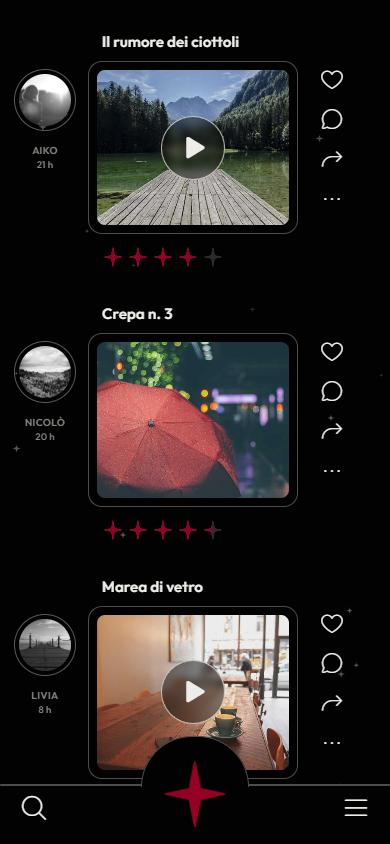
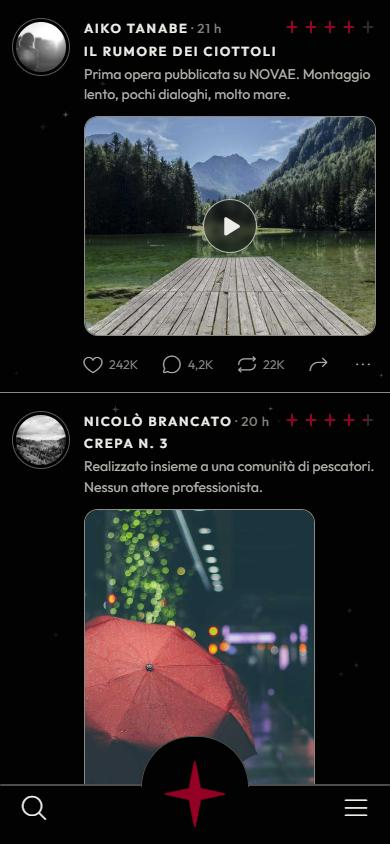
Scopri: nuovo feed in stile X
- Post come nel bozzetto: foto profilo, NOME · tempo con le stelle a destra,
  titolo e descrizione, riquadro che segue la forma dell'opera, separatori
- Tocco sull'opera: modalita reels (TikTok)
- Tocco sul resto del post o sul fumetto: pagina commenti come su X, con
  statistiche, risposte e campo per rispondere (le risposte restano salvate)
- Azioni: mi piace, commenti, ripubblica, condividi, tre puntini; numeri brevi
- Tre puntini: Salva, Segnala, Non mi interessa (con Annulla); sulle tue opere
  Salva ed Elimina

diff --git a/app.js b/app.js
@@ -431,20 +431,118 @@
     }, { passive: false });
   })();
 
-  /* ---------------- 3. Feed ---------------- */
-  function postHtml(w) {
+  /* ---------------- 3. Scopri: X-style feed ----------------
+     Tap the picture: reels. Tap anywhere else on the post (the black sides) or the comment
+     button: the post's comments page (#post/id), like on X. */
+  const reposted = new Set(readJSON('novae.reposted', []));
+  const hidden = new Set(readJSON('novae.hidden', [])); // "Non mi interessa"
+  const REPLIES_MINE = readJSON('novae.replies', {}); // your replies, per work
+  const repostCount = w => Math.floor(w.likes / 11) + (reposted.has(w.id) ? 1 : 0);
+  // short counts like X: 842, 4,2K, 242K, 1,3M
+  const short = n => n < 1000 ? String(n) : n < 1e6 ? `${(n / 1e3).toFixed(n < 1e4 ? 1 : 0).replace('.', ',').replace(',0', '')}K` : `${(n / 1e6).toFixed(1).replace('.', ',').replace(',0', '')}M`;
+  const replyCount = w => w.comments + (REPLIES_MINE[w.id]?.length || 0);
+  const xActions = (w, big = false) => {
+    const on = liked.has(w.id), rp = reposted.has(w.id);
+    return `<div class="x-actions ${big ? 'big' : ''}">
+      <button class="act like ${on ? 'on' : ''}" data-act="like" data-id="${w.id}" aria-pressed="${on}" aria-label="Mi piace"><i class="${on ? 'ph-fill' : 'ph-light'} ph-heart"></i><small data-count="${w.id}" data-short="1">${short(likeCount(w))}</small></button>
+      <button class="act" data-act="thread" data-id="${w.id}" aria-label="Commenti"><i class="ph-light ph-chat-circle"></i><small>${short(replyCount(w))}</small></button>
+      <button class="act repost ${rp ? 'on' : ''}" data-act="repost" data-id="${w.id}" aria-pressed="${rp}" aria-label="Ripubblica"><i class="ph-light ph-repeat"></i><small data-rp="${w.id}" data-short="1">${short(repostCount(w))}</small></button>
+      ${shareBtn(w)}
+      <button class="act" data-act="more" data-id="${w.id}" aria-label="Altre azioni"><i class="ph-light ph-dots-three"></i></button>
+    </div>`;
+  };
+  // the frame takes the work's own shape: wide works are wide, tall works are tall and narrower
+  const mediaFrame = w => {
+    const ratio = Math.max(.56, Math.min(1.91, (w.w || 1200) / (w.h || 900)));
+    const width = ratio < 1 ? Math.round(56 + ratio * 30) : 100; // portrait: ~73% at 3:4, ~73-85% range
+    return `<a class="x-media ph-img" href="#vista/${w.id}" data-dbl="${w.id}" style="aspect-ratio:${ratio.toFixed(3)};width:${width}%" aria-label="Apri ${w.t} a schermo intero">${img(w.ts ? w.img : w.thumb, w.t)}${mediaOverlay(w)}</a>`;
+  };
+  function postX(w) {
     const a = ARTISTS[w.a];
-    return `<article class="post">
-      <p class="post-title">${w.t}</p>
-      <div class="post-side">${avatarRing(w.a)}<span class="post-by">${a.name.split(' ')[0]}<small>${agoText(w)}</small></span></div>
-      <a class="frame" href="#vista/${w.id}" data-dbl="${w.id}" aria-label="${w.t} di ${a.name}">
-        <span class="frame-inner ph-img">${img(w.thumb, w.t)}${mediaOverlay(w)}</span>
-      </a>
-      <div class="post-actions">${heart(w)}${commentBtn(w)}${shareBtn(w)}<button class="act" data-act="more" data-id="${w.id}" aria-label="Altre azioni"><i class="ph-light ph-dots-three"></i></button></div>
-      ${w.rating ? rating(w.rating, 22) : '<span class="rating new-tag">Nuova</span>'}
+    return `<article class="xpost" data-thread="${w.id}">
+      <div class="x-ava">${avatarRing(w.a)}</div>
+      <div class="x-body">
+        <div class="x-head">
+          <p class="x-meta"><a class="x-name" href="${profileHref(w.a)}">${a.name}</a> <span class="x-time">· ${agoText(w)}</span></p>
+          ${w.rating ? rating(w.rating, 16) : '<span class="new-tag">Nuova</span>'}
+        </div>
+        <p class="x-title">${w.t}</p>
+        <p class="x-desc">${w.desc}</p>
+        ${mediaFrame(w)}
+        ${xActions(w)}
+      </div>
     </article>`;
   }
-  function renderFeed() { $('#feed').innerHTML = [...MINE, ...FEED].map(postHtml).join(''); }
+  function renderFeed() {
+    const list = [...MINE, ...FEED].filter(w => !hidden.has(w.id));
+    $('#feed').className = 'xfeed';
+    $('#feed').innerHTML = list.length ? list.map(postX).join('')
+      : `<div class="empty">${starSvg()}<strong>Hai nascosto tutto</strong><p>Le opere che segni "Non mi interessa" spariscono da qui.</p><button class="btn-ghost" data-act="unhide-all">Mostrale di nuovo</button></div>`;
+  }
+
+  /* ---------------- Post comments page (#post/id), like an X thread ---------------- */
+  const REPLY_TEXTS = [
+    'Il taglio di luce al minuto due. Come hai fatto?', 'Questo mi ha fatto venire voglia di tornare a dipingere.',
+    'Cinque stelle, senza pensarci.', 'La composizione è pazzesca, ci ho messo un po\' a capirla.',
+    'Lo guardo da dieci minuti. Grazie.', 'Mi ricorda casa, in un modo che non so spiegare.',
+    'Quando esce la serie completa?', 'Il suono è perfetto con le cuffie.', 'Colori incredibili. Che pellicola usi?',
+  ];
+  const mockReplies = w => {
+    const r = rng(w.likes || 7);
+    const ids = AIDS.filter(id => id !== w.a);
+    return Array.from({ length: w.ts ? 0 : 6 }, (_, i) => ({
+      a: ids[Math.floor(r() * ids.length)], text: REPLY_TEXTS[Math.floor(r() * REPLY_TEXTS.length)],
+      ago: 3 + i * 17 + Math.floor(r() * 40), likes: Math.floor(r() * 900),
+    }));
+  };
+  const replyHtml = rp => `<div class="x-reply">
+      <div class="x-ava">${avatarRing(rp.a, 'sm')}</div>
+      <div><p class="x-meta"><a class="x-name" href="${profileHref(rp.a)}">${ARTISTS[rp.a].name}</a> <span class="x-time">· ${rp.ts ? agoText(rp) : agoText({ ago: rp.ago })}</span></p>
+        <p class="x-text">${rp.text}</p>
+        ${rp.likes ? `<p class="x-reply-likes"><i class="ph-light ph-heart"></i> ${fmt(rp.likes)}</p>` : ''}</div>
+    </div>`;
+  function renderThread(id) {
+    const w = byId[id];
+    const root = $('#thread');
+    if (!w) { root.innerHTML = `<div class="empty">${starSvg()}<strong>Post non trovato</strong><p>Forse è stato eliminato.</p><a class="btn-ghost" href="#scopri">Torna a Scopri</a></div>`; return; }
+    const a = ARTISTS[w.a];
+    const mine = (REPLIES_MINE[w.id] || []).map(t => ({ a: 'me', text: t.text, ts: t.ts }));
+    root.innerHTML = `
+      <header class="x-top"><button class="icon-btn" data-act="back" data-fallback="#scopri" aria-label="Indietro"><i class="ph-light ph-arrow-left"></i></button><h1>Post</h1></header>
+      <article class="xpost open">
+        <div class="x-ava">${avatarRing(w.a)}</div>
+        <div class="x-body">
+          <div class="x-head">
+            <p class="x-meta"><a class="x-name" href="${profileHref(w.a)}">${a.name}</a> <span class="x-time">· ${agoText(w)}</span></p>
+            ${w.rating ? rating(w.rating, 16) : '<span class="new-tag">Nuova</span>'}
+          </div>
+          <p class="x-title">${w.t}</p>
+          <p class="x-desc open">${w.desc}</p>
+          ${mediaFrame(w)}
+          <p class="x-stats"><span><strong data-rp="${w.id}">${fmt(repostCount(w))}</strong> ripubblicazioni</span><span><strong data-count="${w.id}">${fmt(likeCount(w))}</strong> mi piace</span><span><strong>${fmt(w.views)}</strong> visualizzazioni</span></p>
+          ${xActions(w, true)}
+        </div>
+      </article>
+      <form class="x-compose" data-reply="${w.id}">
+        <img class="x-me" src="${avatar('me')}" alt="">
+        <label for="replyInput" class="sr-only">La tua risposta</label>
+        <input id="replyInput" placeholder="Scrivi la tua risposta" autocomplete="off" maxlength="280">
+        <button class="btn-accent" type="submit">Rispondi</button>
+      </form>
+      <div class="x-replies">${[...mine.reverse(), ...mockReplies(w)].map(replyHtml).join('') || '<p class="x-none">Ancora nessuna risposta. Scrivi la prima.</p>'}</div>`;
+    if (focusReply) { focusReply = false; requestAnimationFrame(() => $('#replyInput')?.focus({ preventScroll: true })); }
+  }
+  let focusReply = false; // set by the comment button, so you can type right away
+  function submitReply(f) {
+    const input = f.querySelector('input');
+    const text = input.value.trim();
+    if (!text) { input.focus(); return; }
+    const id = f.dataset.reply;
+    (REPLIES_MINE[id] ||= []).push({ text: text.replace(/&/g, '&amp;').replace(/</g, '&lt;'), ts: Date.now() });
+    store.set('novae.replies', JSON.stringify(REPLIES_MINE));
+    renderThread(id);
+    toast('Risposta pubblicata');
+  }
 
   /* ---------------- 4. Vista: full-screen vertical feed, like Reels / TikTok ----------------
      Native scroll-snap does the swiping; an IntersectionObserver tracks the reel on screen. */
@@ -474,7 +572,7 @@
     </section>`;
   }
   function renderVista(id) {
-    const all = [...MINE, ...FEED];
+    const all = [...MINE, ...FEED].filter(w => !hidden.has(w.id) || w.id === id);
     const start = byId[id] || all[0];
     const list = all.includes(start) ? all : [start, ...all]; // e.g. a film opened from Cinematografia
     const root = $('#vista');
@@ -956,10 +1054,19 @@
     sheetOpener = null;
   }
   let toastT;
-  function toast(msg) {
+  // toast(msg) or toast(msg, { label, fn }) for an undo-style action button
+  function toast(msg, action) {
     const t = $('#toast');
-    t.textContent = msg; t.classList.add('show');
-    clearTimeout(toastT); toastT = setTimeout(() => t.classList.remove('show'), 2200);
+    t.textContent = msg;
+    if (action) {
+      const b = document.createElement('button');
+      b.className = 'toast-act'; b.textContent = action.label;
+      b.onclick = () => { action.fn(); t.classList.remove('show'); };
+      t.append(b);
+    }
+    t.classList.toggle('has-act', !!action);
+    t.classList.add('show');
+    clearTimeout(toastT); toastT = setTimeout(() => t.classList.remove('show'), action ? 4500 : 2200);
   }
   const COMMENTS = [['kitti', 'Il taglio di luce al minuto due. Come hai fatto?'], ['mara', 'Questo mi ha fatto venire voglia di registrare il mare.'], ['ananya', 'Cinque stelle, senza pensarci.']];
 
@@ -968,6 +1075,7 @@
     invito: () => drawQR(),
     hub: renderHub,
     scopri: renderFeed,
+    post: renderThread,
     vista: renderVista,
     galleria: renderStile,
     stile: renderSeguiti,
@@ -981,7 +1089,7 @@
     impostazioni: renderSettings,
   };
   const TITLES = {
-    invito: 'Invito', scopri: 'Scopri', vista: 'Opera', galleria: 'Galleria', stile: 'Stile', disciplina: 'Cinematografia', opera: 'Opera',
+    invito: 'Invito', scopri: 'Scopri', post: 'Post', vista: 'Opera', galleria: 'Galleria', stile: 'Stile', disciplina: 'Cinematografia', opera: 'Opera',
     novae: 'Novae', mercato: 'Mercato', profilo: 'Profilo', artista: 'Artista', messaggi: 'Messaggi', impostazioni: 'Impostazioni',
   };
   const scrollMemo = new Map(); // hash -> scrollY, so "back" lands where you left
@@ -1061,7 +1169,7 @@
       b.querySelector('i').className = `${on ? 'ph-fill' : 'ph-light'} ph-heart`;
       b.classList.remove('pop'); void b.offsetWidth; if (on) b.classList.add('pop');
     });
-    $$(`[data-count="${w.id}"]`).forEach(s => s.textContent = fmt(likeCount(w)));
+    $$(`[data-count="${w.id}"]`).forEach(s => s.textContent = s.dataset.short ? short(likeCount(w)) : fmt(likeCount(w)));
     if (on) buzz();
   }
   function burst(host, e) {
@@ -1110,10 +1218,41 @@
       return;
     }
     const el = e.target.closest('[data-act]');
-    if (!el) return;
+    if (!el) {
+      // a tap on the post's empty/black area (not the picture, a link or a button) opens its comments
+      const xp = e.target.closest('.xpost[data-thread]');
+      if (xp && !e.target.closest('a, button, input, [data-dbl]') && !getSelection().toString()) location.hash = '#post/' + xp.dataset.thread;
+      return;
+    }
     const act = el.dataset.act;
     const w = byId[el.dataset.id];
     switch (act) {
+      case 'thread':
+        if (cur.name === 'post' && cur.param === w.id) { $('#replyInput')?.focus(); break; }
+        focusReply = true;
+        location.hash = '#post/' + w.id;
+        break;
+      case 'repost': {
+        const on = !reposted.has(w.id);
+        on ? reposted.add(w.id) : reposted.delete(w.id);
+        store.set('novae.reposted', JSON.stringify([...reposted]));
+        $$(`[data-act="repost"][data-id="${w.id}"]`).forEach(b => { b.classList.toggle('on', on); b.setAttribute('aria-pressed', on); });
+        $$(`[data-rp="${w.id}"]`).forEach(s => s.textContent = s.dataset.short ? short(repostCount(w)) : fmt(repostCount(w)));
+        toast(on ? 'Ripubblicata per chi ti segue' : 'Ripubblicazione annullata');
+        if (on) buzz();
+        break;
+      }
+      case 'not-interested': {
+        hidden.add(w.id);
+        store.set('novae.hidden', JSON.stringify([...hidden]));
+        closeSheet();
+        const undo = () => { hidden.delete(w.id); store.set('novae.hidden', JSON.stringify([...hidden])); if (cur.name === 'scopri') refresh(); };
+        toast('Non vedrai più questa opera', { label: 'Annulla', fn: undo });
+        if (cur.name === 'scopri') refresh();
+        else if (cur.name === 'post') location.hash = '#scopri';
+        break;
+      }
+      case 'unhide-all': hidden.clear(); store.del('novae.hidden'); refresh(); break;
       case 'arc': setArc(el.getAttribute('aria-expanded') !== 'true'); break;
       case 'arc-close': setArc(false); break;
       case 'search': openSearch(); break;
@@ -1137,13 +1276,13 @@
         openSheet(`<h3>${w.t}</h3>${rating(w.rating, 18)}<p style="margin-top:12px">${w.desc}</p><p style="margin-top:8px;color:var(--ink-3)">${ARTISTS[w.a].name}, ${w.disc.toLowerCase()}, ${w.year}</p><a class="btn-ghost" href="#opera/${w.id}">Scheda completa</a>`);
         break;
       case 'more':
+        // three dots: Salva, Segnala, Non mi interessa (your own works: Salva, Elimina)
         openSheet(`<h3>${w.t}</h3><div class="action-list">
-          <button data-act="save" data-id="${w.id}"><i class="ph-light ph-bookmark-simple"></i>${saved.has(w.id) ? 'Rimuovi dai salvati' : 'Salva'}</button>
-          <button data-act="copy-link" data-id="${w.id}"><i class="ph-light ph-link-simple"></i>Copia link</button>
-          <a href="${profileHref(w.a)}"><i class="ph-light ph-user"></i>${w.a === 'me' ? 'Vai al tuo profilo' : 'Vai a ' + ARTISTS[w.a].name}</a>
+          <button data-act="save" data-id="${w.id}"><i class="${saved.has(w.id) ? 'ph-fill' : 'ph-light'} ph-bookmark-simple"></i>${saved.has(w.id) ? 'Rimuovi dai salvati' : 'Salva'}</button>
           ${w.a === 'me'
             ? `<button class="danger" data-act="delete" data-id="${w.id}"><i class="ph-light ph-trash"></i>Elimina opera</button>`
-            : `<button class="danger" data-act="report"><i class="ph-light ph-flag"></i>Segnala</button>`}
+            : `<button data-act="report"><i class="ph-light ph-flag"></i>Segnala</button>
+               <button data-act="not-interested" data-id="${w.id}"><i class="ph-light ph-eye-slash"></i>Non mi interessa</button>`}
         </div>`);
         break;
       case 'save': {
@@ -1225,6 +1364,7 @@
   document.addEventListener('submit', e => {
     const f = e.target;
     if (f.id === 'pubForm') { e.preventDefault(); submitPublish(f); return; }
+    if (f.dataset.reply) { e.preventDefault(); submitReply(f); return; }
     if (f.id === 'profForm') { e.preventDefault(); submitProfile(); return; }
     if (f.classList.contains('composer')) {
       e.preventDefault();

diff --git a/styles.css b/styles.css
@@ -768,3 +768,55 @@ body[data-screen="disciplina"] .rail { right: max(4px, calc(50% - 560px + 2px));
    don't resolve in every browser (Safari), which let tall pictures spill out at the bottom */
 .frame { overflow: hidden; }
 .frame-inner { position: absolute; inset: 8px; width: auto; height: auto; }
+
+/* ---------- Scopri: X-style feed (from the feed sketch) ---------- */
+#feed.xfeed { display: block; padding: 0; }
+.xpost { display: grid; grid-template-columns: 58px minmax(0, 1fr); column-gap: 14px; padding: 18px 14px 8px 12px; border-bottom: var(--stroke) solid var(--line-hi); cursor: pointer; transition: background .15s; }
+.xpost:hover { background: rgba(255, 255, 255, .018); }
+.xpost.open { cursor: default; border-bottom-color: var(--line); }
+.xpost.open:hover { background: none; }
+.x-ava .avatar-ring { width: 58px; height: 58px; padding: 3px; }
+.x-body { min-width: 0; }
+.x-head { display: flex; align-items: flex-start; justify-content: space-between; gap: 10px; }
+.x-meta { min-width: 0; font-size: 13px; line-height: 1.3; white-space: nowrap; overflow: hidden; text-overflow: ellipsis; padding-top: 2px; }
+.x-name { font-weight: 600; letter-spacing: .14em; text-transform: uppercase; }
+.x-name:hover { text-decoration: underline; }
+.x-time { color: var(--ink-3); font-weight: 500; letter-spacing: .06em; }
+.x-head .rating { flex: none; margin-top: 1px; }
+.x-head .new-tag { flex: none; font-size: 10px; font-weight: 700; letter-spacing: .12em; text-transform: uppercase; color: var(--accent-hi); }
+.x-title { margin-top: 6px; font-size: 13px; font-weight: 600; letter-spacing: .14em; text-transform: uppercase; }
+.x-desc { margin-top: 5px; font-size: 14px; line-height: 1.45; color: var(--ink-2); display: -webkit-box; -webkit-line-clamp: 3; -webkit-box-orient: vertical; overflow: hidden; }
+.x-desc.open { -webkit-line-clamp: unset; display: block; font-size: 15px; color: var(--ink); }
+/* the frame follows the work's shape (aspect-ratio and width are set per post) */
+.x-media { position: relative; display: block; margin-top: 12px; border: var(--stroke) solid var(--line-hi); border-radius: 14px; overflow: hidden; background: var(--bg-2); max-width: 100%; }
+.x-media img { position: absolute; inset: 0; width: 100%; height: 100%; object-fit: cover; }
+.x-media .play-ico { width: 54px; height: 54px; font-size: 22px; }
+.x-actions { display: flex; align-items: center; justify-content: space-between; margin: 8px -6px 0 -10px; }
+.x-actions .act { display: flex; align-items: center; gap: 5px; height: 40px; padding: 0 8px; font-size: 22px; color: var(--ink-2); border-radius: 999px; transition: color .15s, background .15s; }
+.x-actions .act:hover { color: var(--ink); background: rgba(255, 255, 255, .05); }
+.x-actions .act small { font-size: 12.5px; color: var(--ink-3); font-family: var(--sans); }
+.x-actions .act.like.on, .x-actions .act.like.on small { color: var(--accent-hi); }
+.x-actions .act.repost.on, .x-actions .act.repost.on small { color: #3ecf8e; }
+.x-actions .grow { flex: 1; }
+.x-actions [data-act="more"] { min-width: 0; }
+.x-actions.big .act { font-size: 25px; }
+.x-actions.big .act small { display: none; }
+/* comments page */
+.screen[data-screen="post"] .x-top { position: sticky; top: 0; z-index: 3; display: flex; align-items: center; gap: 8px; padding: 8px 8px; background: rgba(3, 3, 3, .88); -webkit-backdrop-filter: blur(12px); backdrop-filter: blur(12px); border-bottom: var(--stroke) solid var(--line); }
+.x-top h1 { font-size: 18px; font-weight: 600; letter-spacing: .14em; text-transform: uppercase; }
+.x-stats { display: flex; flex-wrap: wrap; gap: 4px 18px; margin-top: 14px; padding: 12px 0; border-top: var(--stroke) solid var(--line); border-bottom: var(--stroke) solid var(--line); font-size: 13px; color: var(--ink-3); }
+.x-stats strong { color: var(--ink); font-weight: 600; }
+.x-compose { display: grid; grid-template-columns: 40px 1fr auto; gap: 10px; align-items: center; padding: 12px 14px; border-bottom: var(--stroke) solid var(--line); }
+.x-compose .x-me { width: 40px; height: 40px; border-radius: 50%; }
+.x-compose input { min-width: 0; background: none; border: 0; outline: none; color: var(--ink); font: inherit; font-size: 16px; padding: 8px 0; }
+.x-compose input::placeholder { color: #75736e; }
+.x-compose .btn-accent { padding: 9px 18px; font-size: 14px; }
+.x-reply { display: grid; grid-template-columns: 42px minmax(0, 1fr); gap: 12px; padding: 14px 14px; border-bottom: var(--stroke) solid var(--line); }
+.x-reply .avatar-ring.sm { width: 42px; height: 42px; }
+.x-text { margin-top: 3px; font-size: 15px; line-height: 1.45; }
+.x-reply-likes { margin-top: 6px; font-size: 12px; color: var(--ink-3); display: flex; align-items: center; gap: 5px; }
+.x-none { padding: 30px 14px; text-align: center; color: var(--ink-3); }
+.sr-only { position: absolute; width: 1px; height: 1px; overflow: hidden; clip: rect(0 0 0 0); white-space: nowrap; }
+/* toast with an undo button */
+.toast.has-act { pointer-events: auto; display: flex; align-items: center; gap: 14px; }
+.toast-act { font-weight: 700; color: var(--accent); text-decoration: underline; }

diff --git a/index.html b/index.html
@@ -13,10 +13,10 @@
   <link href="https://fonts.googleapis.com/css2?family=Outfit:wght@300;400;500;600&display=swap" rel="stylesheet">
   <link rel="stylesheet" href="https://cdn.jsdelivr.net/npm/@phosphor-icons/web@2.1.1/src/light/style.css">
   <link rel="stylesheet" href="https://cdn.jsdelivr.net/npm/@phosphor-icons/web@2.1.1/src/fill/style.css">
-  <link rel="stylesheet" href="styles.css?v=32">
+  <link rel="stylesheet" href="styles.css?v=34">
   <script src="https://cdn.jsdelivr.net/npm/d3@7.9.0/dist/d3.min.js" defer></script>
   <script src="https://cdn.jsdelivr.net/npm/topojson-client@3.1.0/dist/topojson-client.min.js" defer></script>
-  <script src="app.js?v=32" defer></script>
+  <script src="app.js?v=34" defer></script>
 </head>
 <body data-screen="invito">
 
@@ -66,6 +66,11 @@
     <section class="screen" data-screen="scopri" aria-label="Scopri">
       <div class="ptr" id="ptr" aria-hidden="true"><img src="assets/icone/stella.png" alt="" draggable="false"></div>
       <div class="feed" id="feed"></div>
+    </section>
+
+    <!-- 3b. Commenti di un post (come un thread di X) -->
+    <section class="screen" data-screen="post" aria-label="Commenti del post">
+      <div id="thread"></div>
     </section>
 
     <!-- 4. Vista a schermo intero -->

diff --git a/README.md b/README.md
@@ -32,7 +32,7 @@ Si entra **solo su invito**: serve il codice (o il QR) di qualcuno che è già d
 
 ## Schermate
 
-| Invito | Menu principale | Scopri (feed) |
+| Invito | Menu principale | Scopri (feed stile X) |
 |:---:|:---:|:---:|
 | <img src="docs/screenshots/01-invito.jpg" width="220" alt="Schermata d'invito con QR"> | <img src="docs/screenshots/02-menu.jpg" width="220" alt="Menu principale a raggiera"> | <img src="docs/screenshots/03-feed.jpg" width="220" alt="Feed delle opere"> |
 | **Ruota delle sezioni** | **Cinematografia** | **Novae (il pianeta)** |
@@ -50,7 +50,7 @@ Si entra **solo su invito**: serve il codice (o il QR) di qualcuno che è già d
 - **Opere a schermo intero**: come Reels e TikTok, scorri su e giù per passare alla prossima. Tocca per mettere in pausa, doppio tocco per il mi piace.
 - **Scheda opera**: player, descrizione completa e opere correlate.
 - **Galleria**: le discipline (Cinematografia, Pittura, Fotografia...). In **Cinematografia**: serie, film e classifica, con le righe a gradini per genere (Novae, Thriller, Storico).
-- **Scopri**: il feed delle opere, con valutazione a stelle, mi piace, commenti, condivisione e salvataggi.
+- **Scopri**: il feed veloce in stile X. Tocca l'opera per la modalità reels, tocca il resto del post o il fumetto per i commenti; mi piace, ripubblica, condividi e tre puntini (Salva, Segnala, Non mi interessa). Il riquadro segue la forma dell'opera.
 - **Stile**: per ora, le opere degli artisti che segui, filtrabili per artista.
 - **Mercato**: opere in vendita, con prezzi in crediti.
 - **Profilo, Messaggi, Impostazioni**.
